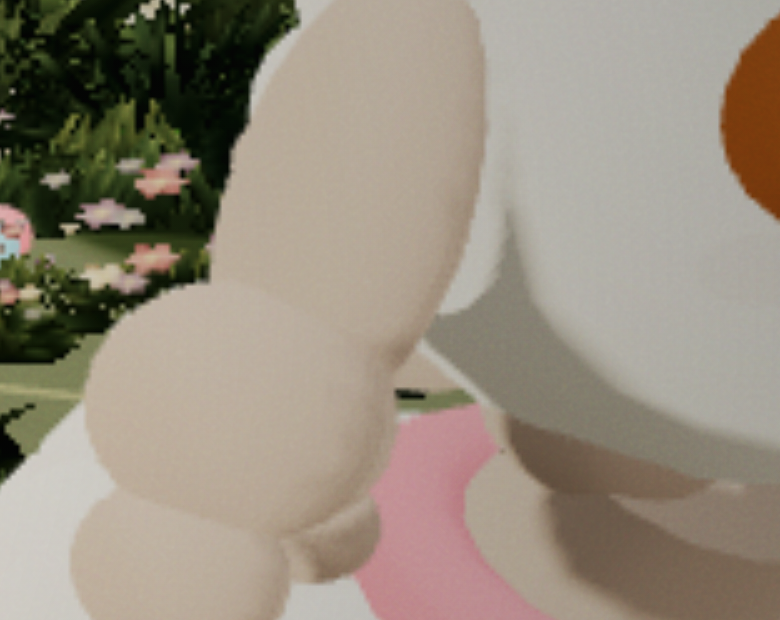
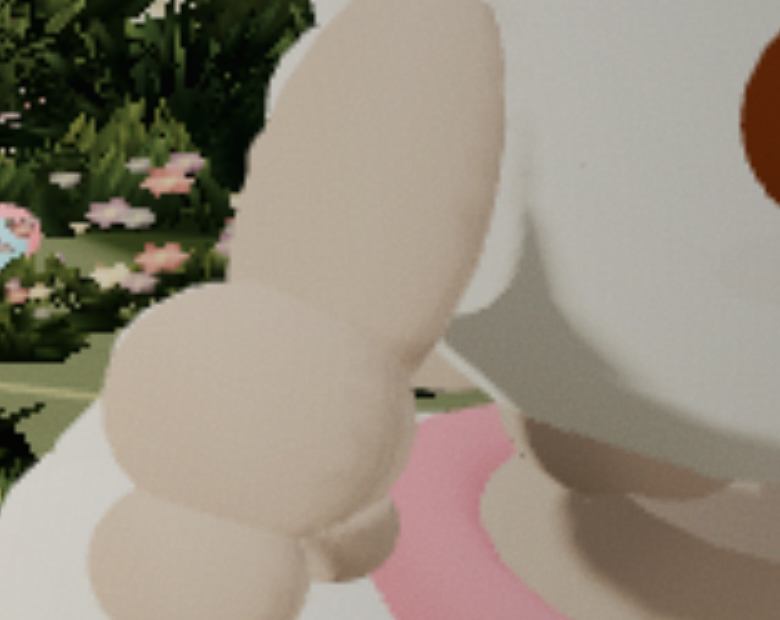
feat: Rosie's warm fur, face and seven expressions
Builds design/art/title-and-expressions.md from the user's own character
sheet of their dog. Cream fur over a warm putty shade with the wardrobe
and wet tint intact; rounder eyes with a deeper iris, a smaller warm
nose, a short muzzle patch and a third ear ball so the ears fall below
it; clustered irregular curls and stray tufts to break her silhouette
against the painted garden, all inside existing bakes for no extra cost.

Seven expressions on one blended vector wired to idle, running, biting,
being lassoed, taking damage, Giant Dance Mode and winning, with blush
doubling as the damage readout.

Two iterations went into the eyes: the spec's glint radii swamped the
pupil into a white blob, and the pupil sat inside the iris so narrowed
expressions lost it.

213 draw calls, no new ones. Moves harness unchanged at 35/36.

Refs: design/art/title-and-expressions.md

Claude-Session: https://claude.ai/code/session_01JR8fsw3Uh5kViP8MJWMfnz

diff --git a/src/index.html b/src/index.html
@@ -156,6 +156,22 @@ button:focus-visible{outline:3px solid var(--sun);outline-offset:3px}
 #startOv .how{font-size:clamp(11px,2.4vw,13.5px);gap:3px 10px;align-items:center}
 #startOv .how dd{white-space:nowrap;overflow:hidden;text-overflow:ellipsis}
 .how kbd+kbd{margin-left:3px}
+/* title-and-expressions 4: the panel inverts the value relationship -- deep ground, warm cream type, so the
+   LETTERS are the light instead of a cream slab being the brightest object on screen. Scoped to
+   #startOv .card: HUD, pause and results cards keep --paper. Hue pulled off the doc's #2b2152 toward the
+   muted garden, so the panel sits beside sage instead of shouting violet at it. Live text throughout. */
+#startOv .card{--t-panel:#3b3450;--t-panel2:#2c2740;--t-edge:#1d1a2a;--t-cream:#ffeeda;--t-body:#e0d2bf;--t-amber:#ffb062;--t-hose:#2fd98a;
+  background:linear-gradient(180deg,var(--t-panel),var(--t-panel2));border-color:var(--t-edge);box-shadow:0 8px 0 var(--t-edge);color:var(--t-body);overflow:hidden}
+#startOv .card::before{content:'';position:absolute;left:50%;top:20%;width:260px;height:260px;transform:translate(-50%,-50%);pointer-events:none;
+  background:radial-gradient(circle,rgba(255,154,90,.22),rgba(255,154,90,0) 70%)} /* the reference's lamp glow: the panel's value anchor */
+#startOv .card>*{position:relative}
+#startOv .eyebrow,#startOv .how dt{color:var(--t-amber)}
+#startOv p,#startOv .how dd{color:var(--t-body)}
+#startOv .logo i{color:var(--t-cream);-webkit-text-stroke-width:3px;-webkit-text-stroke-color:var(--t-edge);text-shadow:0 5px 0 var(--t-edge)}
+#startOv .logo .w2 i{color:var(--t-amber)}
+#startOv .logo .w3 i{color:var(--t-hose)} /* --go-g goes muddy on a dark ground */
+#startOv .logo .w3{font-size:clamp(29px,7vw,46px)} /* hierarchy: Rosie > the Hose > vs. */
+#startOv .logo .w{max-width:100%} /* web-font failure is a hard requirement: the fallback must not overflow */
 @media (min-width:720px){#startOv{align-items:center}#startOv .card{width:46%;min-width:340px;max-width:540px}}
 
 /* touch buttons: paw and fang glyphs, inner top highlight, 4 px ink */
@@ -1846,7 +1862,7 @@ const boneM=M('#fffaf0',{roughness:.4,emissive:'#554422'}),treat3=[0,1,2].map(()
 const WHITE=new THREE.Color('#ffffff'),WETC=new THREE.Color('#b9dcf5');
 /* wardrobe 2.2: FURC/FURS are captured by the wet lerp in render3D, so wFur() rebuilds them -- without this Rosie snaps back to cream the moment she gets wet */
 let FURC=new THREE.Color('#fff3dd').convertSRGBToLinear(),FWET=new THREE.Color('#a9c4d2').convertSRGBToLinear(),FURS=new THREE.Color('#c7ae9c').convertSRGBToLinear();
-const furM=M('#fff3dd',{roughness:.92}),furS=M('#c7ae9c',{roughness:.92}),collarM=M('#d9859c'),peachM=M('#f3d9c6',{roughness:.8}),noseM=M('#7a4e42',{roughness:.25}),eyeM=M('#2a1a22',{roughness:.05}),irisM=M('#6e4122'),glintM=new THREE.MeshBasicMaterial({color:'#ffffff'}),glint3M=new THREE.MeshBasicMaterial({color:'#ffd9b0',transparent:true,opacity:.35});
+const furM=M('#fff3dd',{roughness:.92}),furS=M('#c7ae9c',{roughness:.92}),collarM=M('#d9859c'),peachM=M('#f3d9c6',{roughness:.8}),noseM=M('#7a4e42',{roughness:.25}),eyeM=M('#2a1a22',{roughness:.05}),irisM=M('#5e3519'),glintM=new THREE.MeshBasicMaterial({color:'#ffffff'}),glint3M=new THREE.MeshBasicMaterial({color:'#ffd9b0',transparent:true,opacity:.35});
 /* art v2 item 4: big round head (about 60% of her), few fat curls, wide readable eyes. Curl placement is a fixed spiral, not r2(). */
 {for(let i=0;i<24;i++){r2();r2();r2();}for(let i=0;i<46;i++){const a=r2()*Math.PI*2,b=(r2()-.3)*Math.PI*.9;if(Math.cos(a)*Math.cos(b)>.42&&Math.sin(b)<.45)continue;r2();}for(let i=0;i<14;i++){r2();r2();r2();}} /* spend the draft's r2() draws so the seeded scenery built after Rosie stays where it was */
 const dog=grp(scene),dogP=grp(dog),dBody=grp(dogP);
@@ -1873,7 +1889,7 @@ sph(dHead,peachM,5,39,-16,0,1,.85,1.4,false);
 sph(dHead,noseM,6.0,41,-7,0,.8,.72,1.1,false);sph(dHead,glintM,1.8,45.2,-4.6,1.8,1,1,1,false);
 /* art v3 item 6: bigger eye, warm amber iris as a visible ring, and three glints -- sun catch,
    secondary, and a soft bounce-light crescent on the lower-inner rim. */
-const dEyes=[1,-1].map(s=>{const e=sph(dHead,irisM,13,31,7,s*17,.62,1.0,1.06,false);sph(e,eyeM,.80,.2,0,0,1,1,1,false);sph(e,glintM,.22,.95,.52,s*.30,1,1,1,false);sph(e,glintM,.105,1,-.45,-s*.30,1,1,1,false);sph(e,glint3M,.15,.92,-.55,.10,1,1,1,false);return e;});
+const dEyes=[1,-1].map(s=>{const e=sph(dHead,irisM,13,31,7,s*17,.62,1.0,1.06,false);sph(e,eyeM,.80,.42,0,0,1,1,1,false);sph(e,glintM,.22,.95,.52,s*.30,1,1,1,false);sph(e,glintM,.105,1,-.45,-s*.30,1,1,1,false);sph(e,glint3M,.15,.92,-.55,.10,1,1,1,false);return e;});
 const EYE_X=13*.62,EYE_Y=13*1.0,EYE_Z=13*1.06; /* base scale: sph() bakes radius into scale, so the expression loop rebuilds all three axes */
 const dBlush=[1,-1].map(s=>sph(dHead,MB('#f59b85',.18),6,29.5,-9,s*24,.4,.62,1.25,false)); /* MB() per side: the expression vector drives opacity */
 /* neck: distinctly smaller than the head and in the shade tone, with the collar as a band across it -- this is what separates head from body from behind */
@@ -1919,10 +1935,10 @@ const EXPR={
  bright:   [1.00,1.00,.80, 0.00,0.00, 0.00, 0.00,0.00,0.00,.18],
  panting:  [ .80,1.00,.80,-0.06,0.00, 0.10,-0.08,0.55,1.00,.30],
  determined:[.62,1.00,.70, 0.10,0.00,-0.55,-0.14,0.70,0.00,.14],
- startled: [1.22,1.10,.62, 0.05,0.00, 0.60, 0.55,0.35,0.00,.35],
+ startled: [1.22,1.10,.68, 0.05,0.00, 0.60, 0.55,0.35,0.00,.35],
  dizzy:    [ .42,1.00,.80, 0.00,0.18,-0.30,-0.04,0.40,1.00,.55],
  fierce:   [ .70,1.00,.66, 0.00,0.00,-0.75,-0.18,0.85,1.00,.20],
- delighted:[ .35,1.00,.80, 0.00,0.00, 0.35, 0.14,0.95,1.25,.45]};
+ delighted:[ .24,1.00,.80, 0.00,0.00, 0.35, 0.14,0.95,1.25,.45]};
 const exC=EXPR.bright.slice();let exName='bright',exTau=.12,exHold=0,exForce=null;
 /* test hook: /expression verification drives a face directly instead of waiting for the game to make one */
 window.__EXPR=function(n){exForce=n&&EXPR[n]?n:null;return exName;};
@@ -2427,7 +2443,7 @@ function render3D(dt){
   const wide=cam.aspect>=1.25;let ch=wide?196:252,cd=wide?505:612,hx=0,ly=74;if(R.held){ch*=.94;cd*=.88;}  // 3.2: push in 12%
   /* title: hero framing - closer in, aimed to Rosie's left so she sits on the right of frame
      and the docked title card has empty yard to sit on (art-direction-v2, item 10) */
-  if(state==='title'){ch=wide?250:300;cd=wide?450:560;ly=wide?130:190;hx=-Math.tan(baseFov*Math.PI/360)*cam.aspect*cd*(wide?.46:.24);}
+  if(state==='title'){ch=wide?215:265;cd=wide?400:500;ly=wide?150:205;hx=-Math.tan(baseFov*Math.PI/360)*cam.aspect*cd*(wide?.52:.24);}
   /* 1.4: pause eases (0.35 s) to the wardrobe portrait so the rope, the weak spot and every live
      attack leave the frame -- without this, pause is a free scouting tool. */
   {let px=camTX+hx+(shake>0?rand(-8,8)*shake*4:0),py=ch+(shake>0?rand(-6,6)*shake*4:0),pz=camTZ+cd,lx=camTX+hx,lyv=ly,lz=camTZ-162;
@@ -2490,7 +2506,7 @@ function render3D(dt){
      blink is a MULTIPLIER on eyeY, not an eighth expression, so it composes with every face. */
   {const c=exC,bl=shut?.18:1,sp=!!R.sp,ear=c[6],eX=Math.max(0,ear)*1.5,eZ=ear<0?ear:ear*.35,fk=1-clamp(-ear*2.5,0,.7);
    dEyes.forEach((e,i)=>{const s=i?-1:1;e.scale.set(EYE_X,EYE_Y*c[0]*bl,EYE_Z*c[1]);
-     const p=e.children[0];p.scale.setScalar(c[2]);p.position.set(.2,c[3],s*c[4]);});
+     const p=e.children[0];p.scale.setScalar(c[2]);p.position.set(.42,c[3],s*c[4]);});
    dBrows.forEach((b,i)=>{b.rotation.x=(i?-1:1)*browS;b.position.y=21+Math.max(0,browS)*5;});
    /* blush doubles as the damage readout: a glance at her face tells you how she is doing */
    {const op=Math.min(.62,c[9]+.34*(R.hpMax?1-R.hp/R.hpMax:0));for(const b of dBlush)b.material.opacity=op;}
